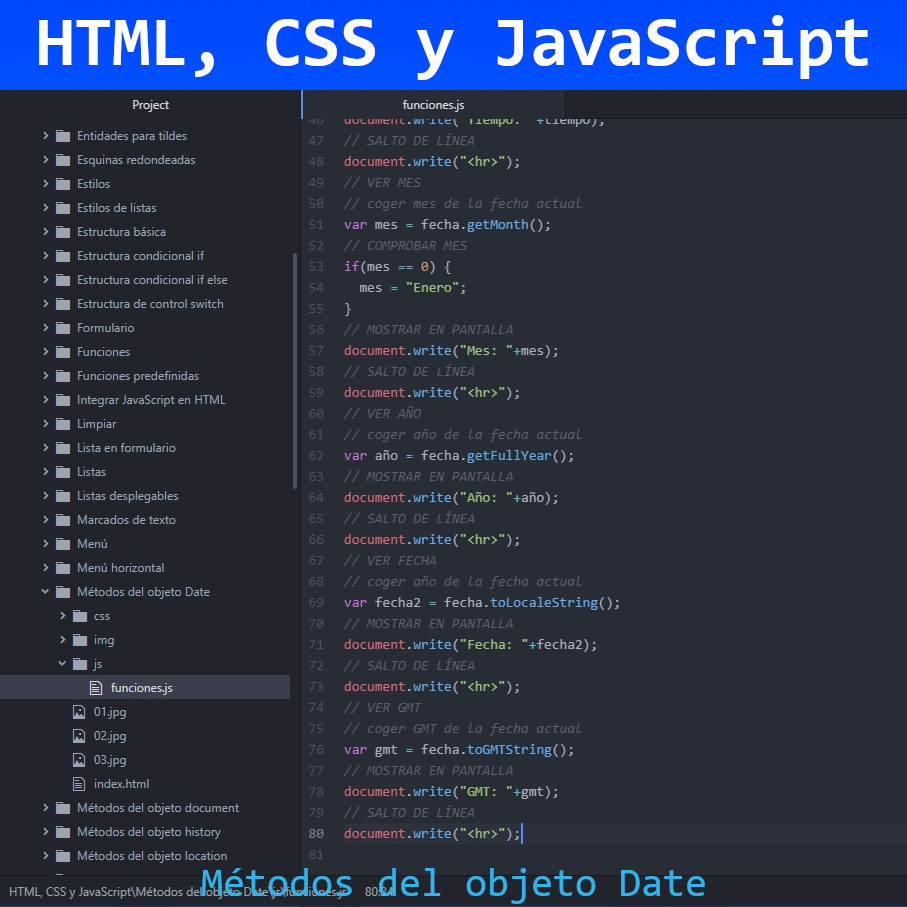
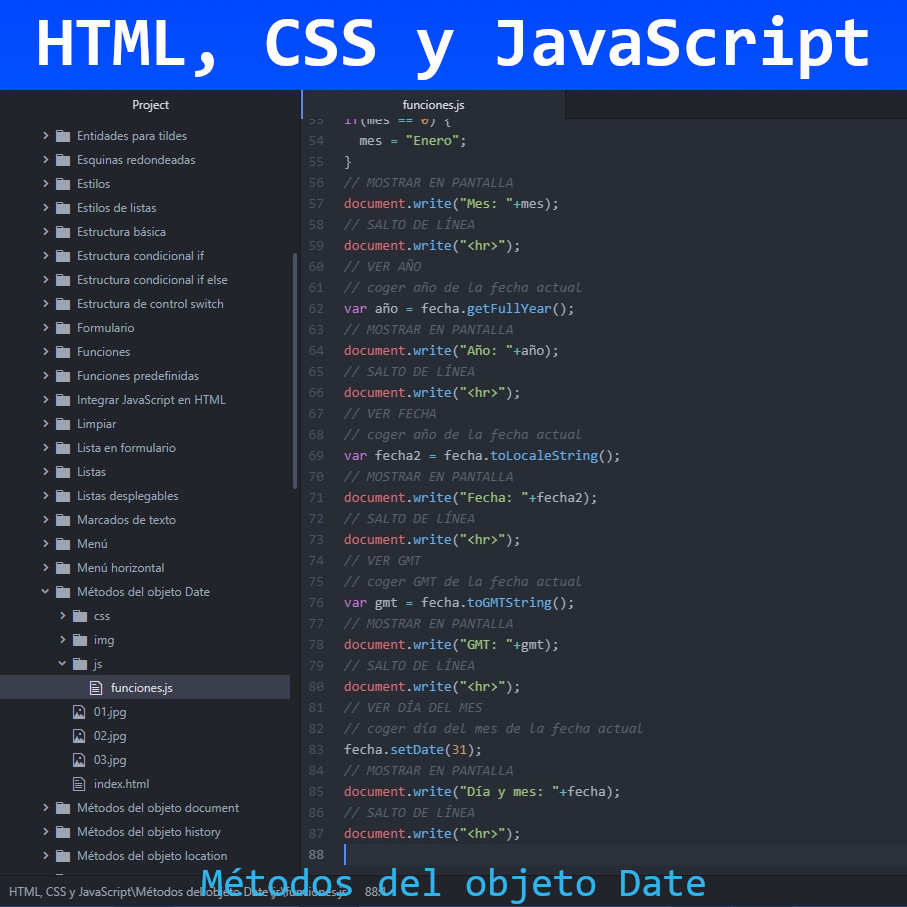
Métodos del objeto Date
Métodos del objeto Date en JavaScript

diff --git a/HTML, CSS y JavaScript/Métodos del objeto Date/js/funciones.js b/HTML, CSS y JavaScript/Métodos del objeto Date/js/funciones.js
@@ -78,3 +78,10 @@ var gmt = fecha.toGMTString();
 document.write("GMT: "+gmt);
 // SALTO DE LÍNEA
 document.write("<hr>");
+// VER DÍA DEL MES
+// coger día del mes de la fecha actual
+fecha.setDate(31);
+// MOSTRAR EN PANTALLA
+document.write("Día y mes: "+fecha);
+// SALTO DE LÍNEA
+document.write("<hr>");
